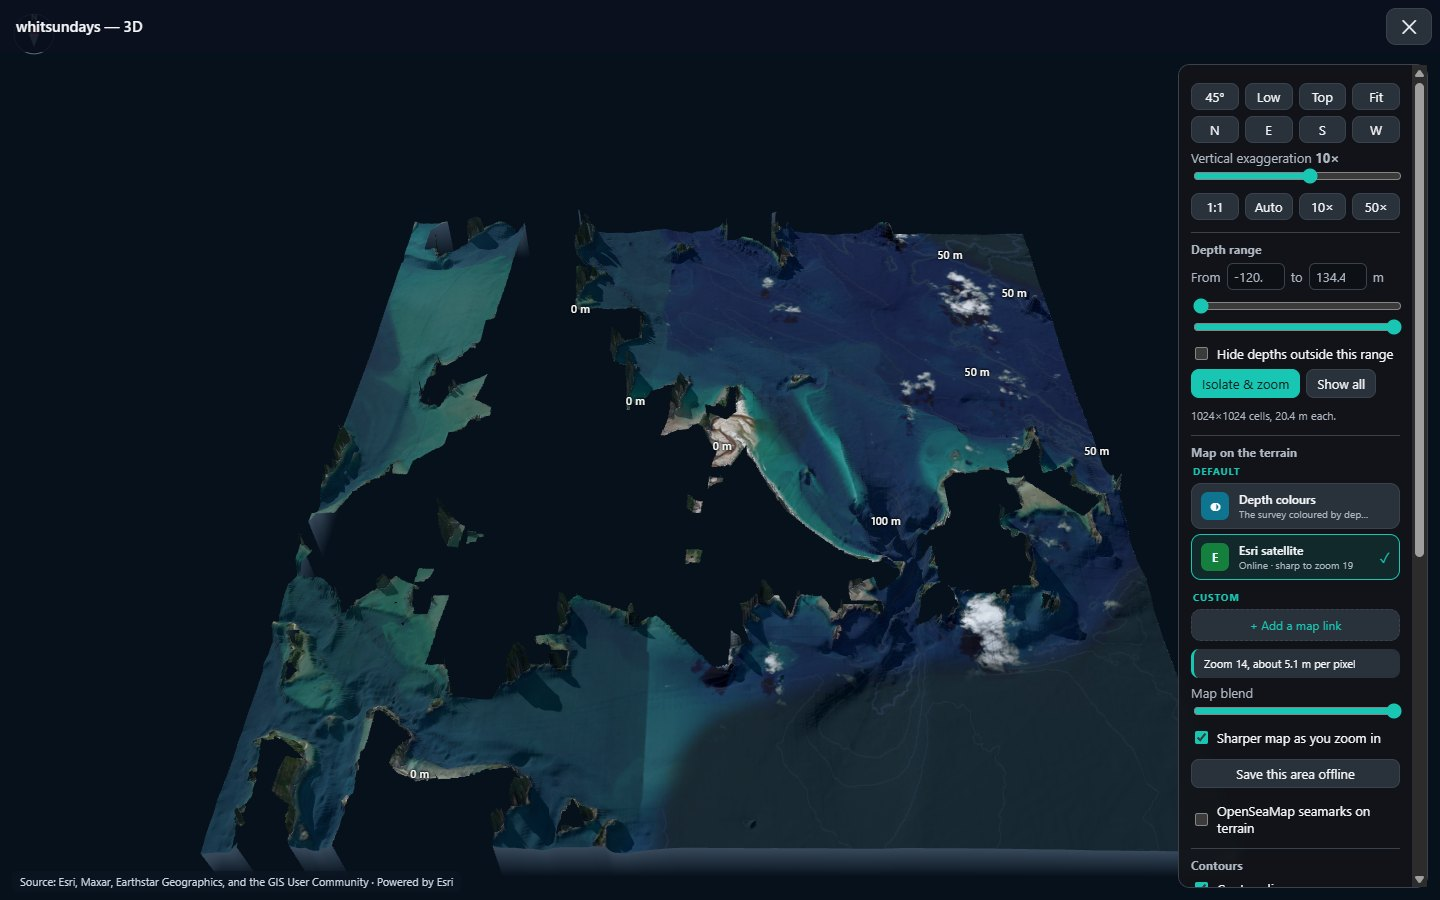
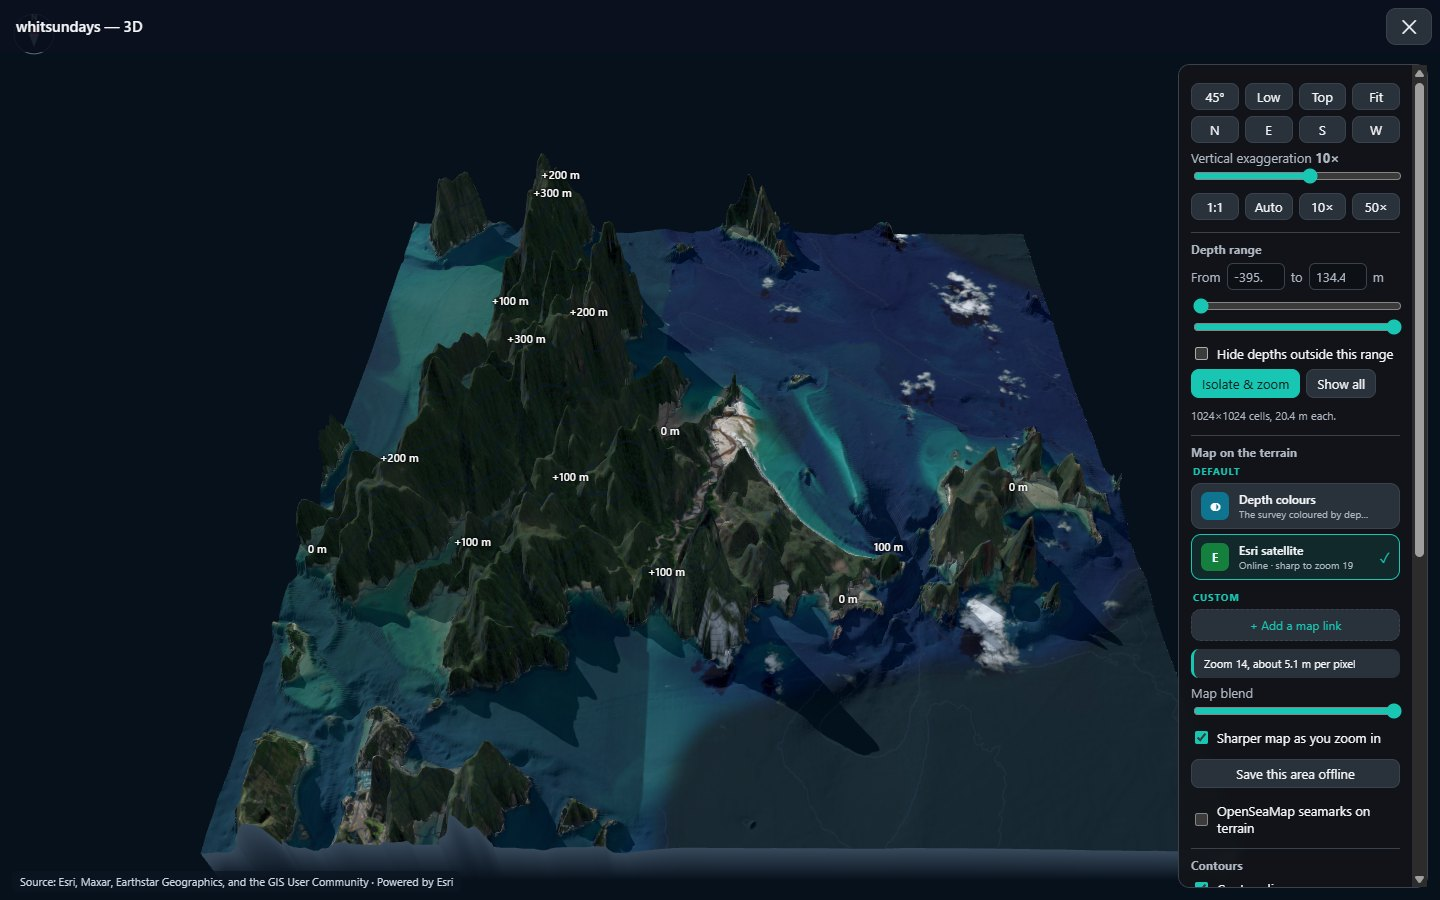
New 3D screenshots and repository links
The Whitsundays 3D screenshot now includes the islands (GMRT land heights) and the main image shows Hardy Reef. package.json gains homepage, repository and author fields.

diff --git a/src/renderer/terrain3d.js b/src/renderer/terrain3d.js
@@ -1004,8 +1004,8 @@ if (uContour > 0.0) {
   // ---------------------------------------------------------------- loop
 
   /**
-   * Starts drawing. Safe to call repeatedly: there is only ever one loop
-   * (calling it on every reload used to stack a new 60 fps loop each time).
+   * Starts drawing. Safe to call repeatedly, for example on every reload:
+   * there is only ever one loop running.
    */
   activate() {
     this.active = true;

diff --git a/README.md b/README.md
@@ -11,7 +11,7 @@ Depth surveys, a 3D seabed, tides, sea conditions and route planning, for Window
   <img alt="Not for navigation" src="https://img.shields.io/badge/not%20for-navigation-critical">
 </p>
 
-<p align="center"><img src="screenshots/3d.jpg" width="860" alt="The Whitsundays in 3D, coloured by depth, with the 3D settings panel"></p>
+<p align="center"><img src="screenshots/3d.jpg" width="860" alt="Hardy Reef and Heart Reef on the Great Barrier Reef in 3D, coloured by depth at 10x height, with the 3D settings panel"></p>
 
 SeaBathy Desktop is the [SeaBathy](https://github.com/SeaBathy/seabathy-android) Android
 app for Windows: the same chart, survey colours, 3D view, offline maps, sea conditions,
@@ -187,5 +187,6 @@ Also from SeaBathy: the [Android app](https://github.com/SeaBathy/seabathy-andro
 [BathyPicker](https://github.com/SeaBathy/BathyPicker) and
 [AT5 Chart Maker](https://github.com/SeaBathy/AT5-Chart-Maker).
 
-Screenshots use a 10 m survey of reefs off Townsville and IMAS bathymetry of the
-Whitsundays (CC BY 4.0).
+Screenshots use a 10 m survey of reefs off Townsville, and IMAS bathymetry (CC BY 4.0) of the
+Whitsundays and of Hardy and Heart Reefs made with BathyPicker. IMAS covers the seafloor only,
+so in the Whitsundays shots the island heights come from GMRT (CC BY 4.0).
